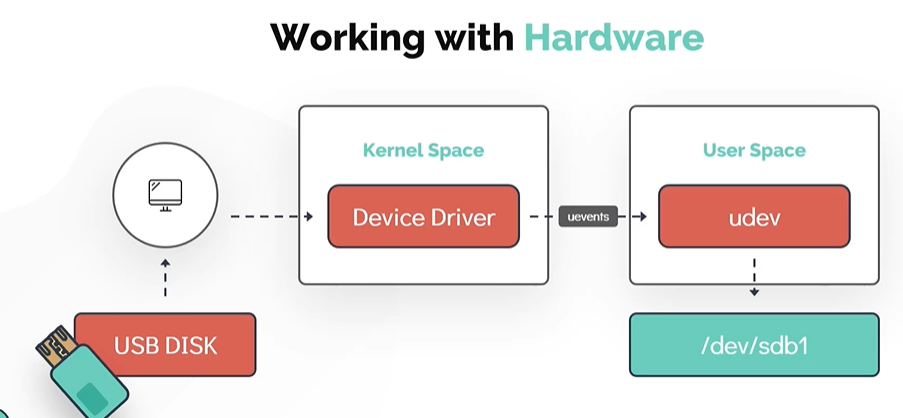
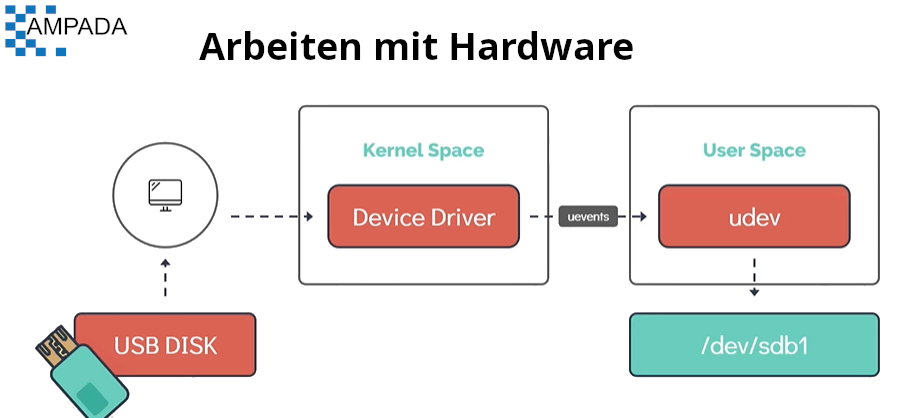
translated and updates image

diff --git a/docs/02-Linux-Core-Konzepte/02-Arbeiten-mit-der-Hardware.md b/docs/02-Linux-Core-Konzepte/02-Arbeiten-mit-der-Hardware.md
@@ -10,7 +10,7 @@ Nehmen wir ein Beispiel für **`USB Disk`**, das im System verwendet wird.
 - Der Dienst **`udev`** ist dann für die dynamische Erstellung eines Geräteknotens verantwortlich, der dem neu angeschlossenen USB-Laufwerk im Dateisystem **`/dev/`** zugeordnet ist.
 - Sobald der Vorgang abgeschlossen ist, sollte die neu angeschlossene Festplatte im Dateisystem **`/dev/`** sichtbar sein.
 
-![arbeiten-mit-hardware](../../images/arbeiten-mit-hardware.PNG)
+![arbeiten-mit-hardware](../../images/Working-with-hardware.PNG)
 
 Verwenden Sie **`dmesg`**, um Nachrichten aus dem Bereich des Kernels namens **`Ring Buffer`** anzuzeigen. Beim Hochfahren eines Linux-Betriebssystems wurden zahlreiche vom Kernel generierte Meldungen auf dem Bildschirm angezeigt. Diese Nachrichten enthalten auch Protokolle von den Hardwaregeräten, die der Kernel erkennt, und geben einen guten Hinweis darauf, ob er in der Lage ist, ihn zu konfigurieren
 ```
